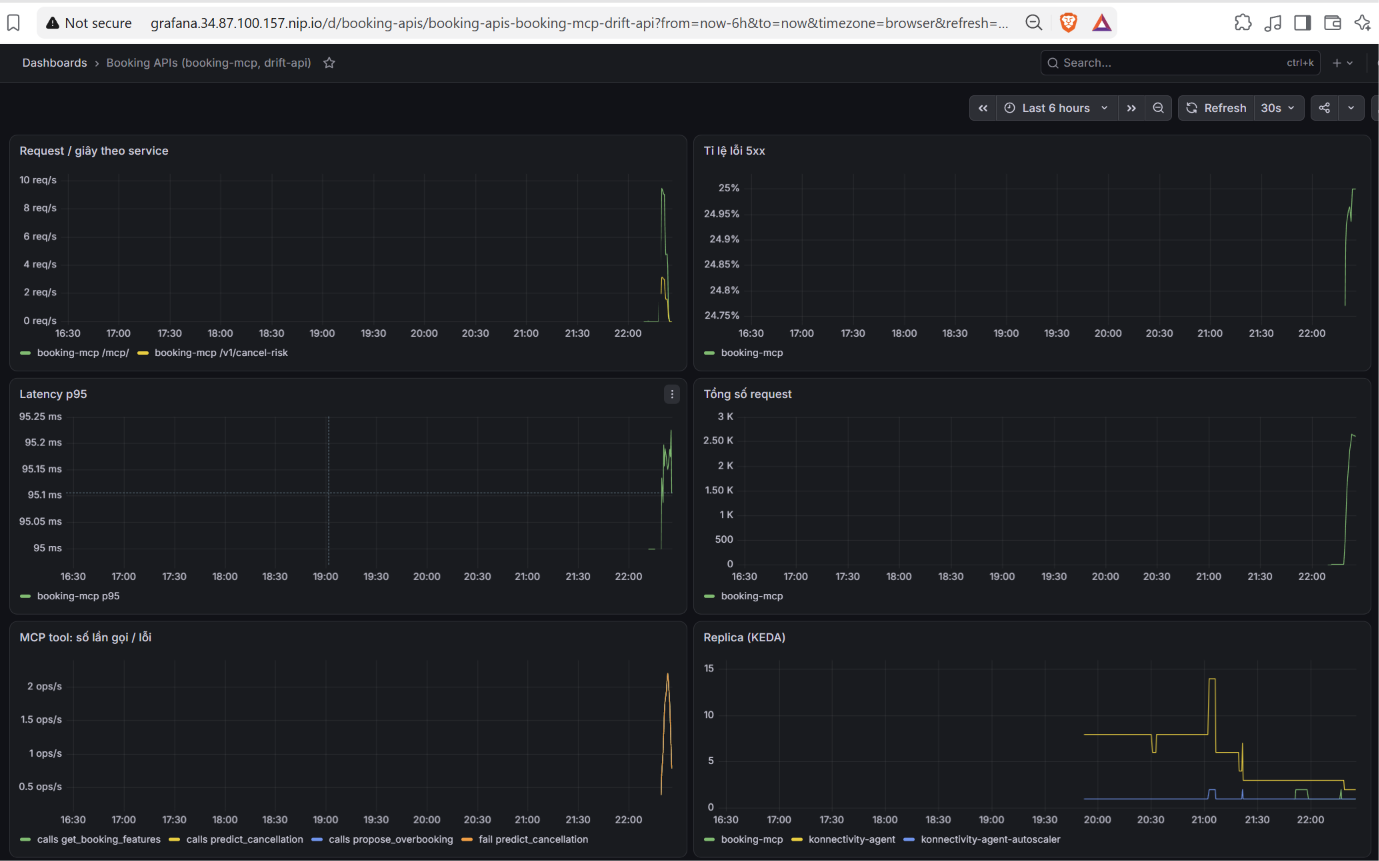
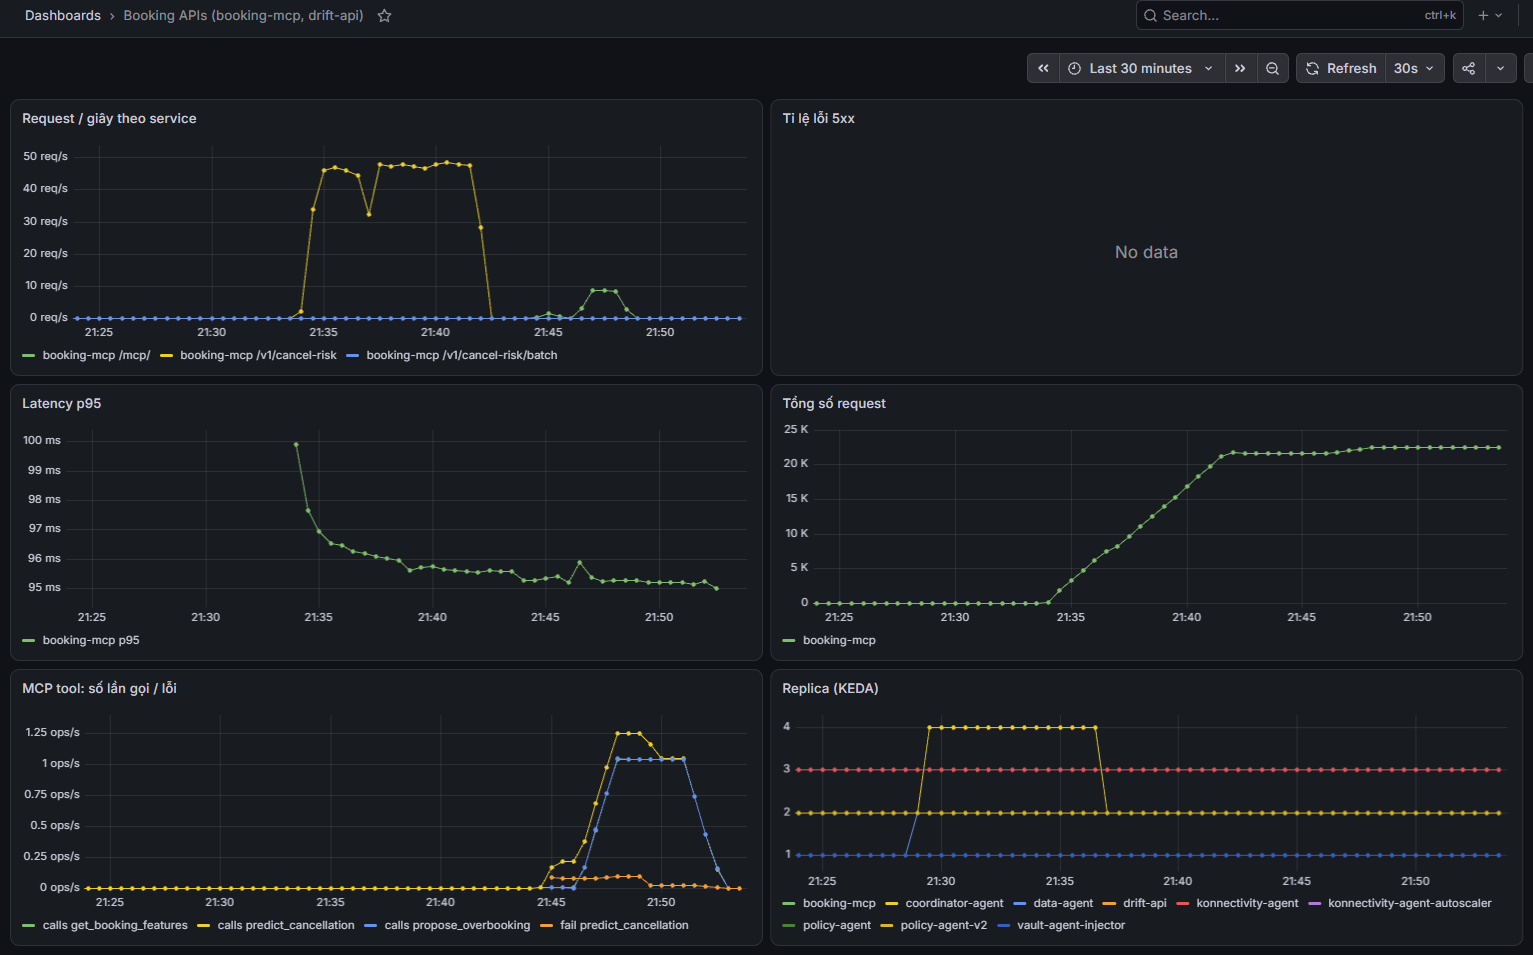
docs(edai-2): refresh dashboard, ep/bva and coordinator scale proofs

diff --git a/docs/edai-2/observability.md b/docs/edai-2/observability.md
@@ -7,16 +7,11 @@ Metric của Web API, telemetry hệ thống, log, trace, telemetry cho LLM và 
 
 booking-mcp chạy trên GKE (namespace `agents`, Helm chart `helm/api`, image
 `booking-mcp:e6e53e9-2`). Feature được materialize từ Gold lên online store Feast (PostgreSQL, schema `feast_online`).
-Một script tạo traffic chạy trong pod, lấy `booking_id`, khách và khách sạn thật từ `gold.fact_bookings` rồi lặp 400
-vòng; mỗi vòng gọi ba tool MCP (`get_booking_features`, `propose_overbooking`, `predict_cancellation`) và REST
-`POST /v1/cancel-risk`. KServe chưa deploy, nên `predict_cancellation` và `/v1/cancel-risk` lỗi thật ở bước gọi model;
-các lỗi này hiện thành failure trên dashboard. booking-mcp dùng `prometheus-fastapi-instrumentator` để đo req/s, số request,
-lỗi và latency; ServiceMonitor của chart cho Prometheus scrape `/metrics`. Dashboard
-`observability/dashboards/booking-apis.json` hiển thị các metric này.
+booking-mcp dùng `prometheus-fastapi-instrumentator` để đo req/s, số request, lỗi và latency; ServiceMonitor của chart
+cho Prometheus scrape `/metrics`. Dashboard `observability/dashboards/booking-apis.json` hiển thị các metric này.
 
-Số đếm trên Prometheus tính từ lúc pod khởi động: `/mcp/` nhận 2.085 request 2xx, `/v1/cancel-risk` trả 692 request 5xx.
-Lúc traffic chạy, `/mcp/` đạt đỉnh khoảng 9,4 req/s và `/v1/cancel-risk` khoảng 3 req/s; tỉ lệ lỗi 5xx của service
-khoảng 25% (692 trên 2.777 request), đúng bằng phần request REST gọi KServe; latency p95 khoảng 95 ms.
+Locust (`tests/locustfile.py`, 20 user, 5 phút) gọi `POST /v1/cancel-risk`: khoảng 47 req/s, hơn 21 nghìn request,
+latency p95 khoảng 96 ms, không có lỗi 5xx (panel 5xx không có series nào).
 
 ![Grafana: Booking APIs](../images/edai-2/grafana-booking-apis.png)
 
@@ -42,7 +37,7 @@ executor Spark khoảng 6 core.
 <a id="edai-2-48"></a>
 ## Thu thập và trực quan hoá Logs (Fluent Bit + Elasticsearch + Kibana)
 
-Dùng cùng stack ở dòng 47; log đi theo chuỗi Fluent Bit → Elasticsearch → Kibana
+Dùng cùng stack ở mục trên; log đi theo chuỗi Fluent Bit → Elasticsearch → Kibana
 (`observability/stack/efk.yaml`), Kibana truy cập qua ingress. Fluent Bit chạy dạng DaemonSet (1 pod mỗi node), đọc log
 container, gắn metadata pod/namespace, bỏ log của `kube-system` và `monitoring`, rồi đẩy vào index `booking-YYYY.MM.DD`.
 Chart Kibana 8.5.1 bật `csp.strict` khiến một số trình duyệt bị chặn, nên cấu hình đặt `csp.strict: false`.
@@ -57,7 +52,7 @@ Airflow DP2 ra đúng log của `silver_bookings`, `stage_gold`, `upsert_gold`.
 <a id="edai-2-49"></a>
 ## Thu thập và trực quan hoá Traces (Jaeger)
 
-Jaeger ([`observability/stack/jaeger.yaml`](../../edai2/observability/stack/jaeger.yaml)) nhận OTLP gRPC cổng 4317 và mở UI qua ingress (dòng 39). Cả `booking-mcp` (FastAPI, span `feast.online` cho mỗi lần đọc online store và httpx tới KServe khi có biến `OTEL_EXPORTER_OTLP_ENDPOINT`) lẫn `agentgateway` ([`gateway/agentgateway.yaml`](../../edai2/gateway/agentgateway.yaml), bật `config.tracing.otlpEndpoint` và `randomSampling: true`) đều gửi trace về `jaeger-collector.monitoring.svc.cluster.local:4317` và truyền tiếp W3C `traceparent` xuyên suốt các dịch vụ.
+Jaeger ([`observability/stack/jaeger.yaml`](../../edai2/observability/stack/jaeger.yaml)) nhận OTLP gRPC cổng 4317 và mở UI qua ingress. Cả `booking-mcp` (FastAPI, span `feast.online` cho mỗi lần đọc online store và httpx tới KServe khi có biến `OTEL_EXPORTER_OTLP_ENDPOINT`) lẫn `agentgateway` ([`gateway/agentgateway.yaml`](../../edai2/gateway/agentgateway.yaml), bật `config.tracing.otlpEndpoint` và `randomSampling: true`) đều gửi trace về `jaeger-collector.monitoring.svc.cluster.local:4317` và truyền tiếp W3C `traceparent` xuyên suốt các dịch vụ.
 
 - **Chạy đơn lẻ `booking-mcp` (trước khi deploy KServe):** trace `POST /v1/cancel-risk` (13,43 ms, 7 span) gồm span FastAPI, hai span `feast.online` (1,78 ms và 2,23 ms) và span `POST` gọi KServe (4,99 ms, đánh dấu lỗi vì KServe chưa deploy).
 - **Trace phân tán liên thông qua gateway → MCP → Feast → KServe:** một lượt gọi MCP `predict_cancellation(120152161878)` qua `agentgateway` → `booking-mcp` → Feast online → KServe `cancel-risk` (trả `probability = 0,0643`, `model_version = 1`) tạo thành **1 trace duy nhất** (`1a3bf0b`, 2 service, độ sâu 4, 11 span, tổng **2,33 s**): `agentgateway` (`tools/call` → `tools/call booking-tools_predict_cancellation` 4,45 ms) → `booking-mcp` (`POST /mcp` → hai span `feast.online` 190,26 ms và 126,72 ms → `POST` gọi KServe 1,78 s).
@@ -82,7 +77,7 @@ Kiểm thử thực tế trên cluster: các prompt chứa PII (`card`, `cccd`, 
 <a id="edai-2-51"></a>
 ## Telemetry cho Agent và MCP Tools
 
-Cùng lần chạy ở dòng 46, `booking-mcp` đếm số lần gọi từng tool (`mcp_tool_calls_total`) và số lần tool lỗi
+`booking-mcp` đếm số lần gọi từng tool (`mcp_tool_calls_total`) và số lần tool lỗi
 (`mcp_tool_failures_total`), hiển thị trên dashboard [`observability/dashboards/booking-apis.json`](../../edai2/observability/dashboards/booking-apis.json).
 Trên GKE, sau khi triển khai đủ `agentgateway` và các agent (`coordinator-agent`, `data-agent`,
 `policy-agent`), dashboard [`observability/dashboards/llm-agents.json`](../../edai2/observability/dashboards/llm-agents.json)
@@ -94,14 +89,9 @@ ghi nhận số lần gọi và lỗi theo từng agent qua metric `agentgateway
 | `default/a2a-data-agent` | 21 | 2 |
 | `default/a2a-policy-agent` | 21 | 2 |
 
-| Tool MCP | Số lần gọi | Số lần lỗi |
-|---|---|---|
-| `get_booking_features` | 692 | 0 |
-| `propose_overbooking` | 692 | 0 |
-| `predict_cancellation` | 692 | 692 (chưa có KServe) |
-
-Trên panel "MCP tool: số lần gọi / lỗi", bốn đường (ba đường số lần gọi và đường lỗi của `predict_cancellation`) trùng
-nhau, vì ba tool được gọi cùng nhịp và `predict_cancellation` lỗi ở mọi lần gọi.
+Một client MCP gọi thẳng booking-mcp 300 vòng, mỗi vòng 3 tool (`predict_cancellation`, `get_booking_features`,
+`propose_overbooking`), khoảng 5% `booking_id` không tồn tại: 900 lời gọi, 8 lỗi, đều ở `predict_cancellation`. Đường
+`get_booking_features` trùng với `propose_overbooking` vì hai tool được gọi cùng nhịp.
 
 ![Grafana: số lần gọi và lỗi theo từng agent (A2A)](../images/edai-2/grafana-agent-calls.png)
 

diff --git a/docs/edai-2/testing.md b/docs/edai-2/testing.md
@@ -17,6 +17,12 @@ Chạy kiểm thử trong container (`python:3.12-slim`): `54` test đạt (`15,
 Test tham số hoá theo các lớp tương đương và giá trị biên: xác suất trong `[0, 1]` trả về từ KServe, `booking_id`, và `K` (`p = 0` hoặc `1`, không có booking, chi phí `≤ 0`). `tests/test_overbooking.py` dùng Hypothesis để đối chiếu `K` với định nghĩa trực tiếp.
 
 Các test `edai2/tests/test_overbooking.py` đều đạt trong lần chạy `54/54` ở trên (ảnh kết quả mục `#edai-2-28`) và trên Jenkins Build #19.
+Chạy riêng `pytest tests/test_overbooking.py -v`: 19/19 test đạt, mỗi lớp tương đương và giá trị biên là một case của
+`parametrize` ([`test_overbooking.py`](../../edai2/tests/test_overbooking.py#L26-L48)).
+
+![EP/BVA: các lớp tương đương và giá trị biên trong parametrize](../images/edai-2/ep-bva-parametrize.png)
+
+![EP/BVA: 19 case parametrize của test_overbooking.py](../images/edai-2/ep-bva-pytest.png)
 
 <a id="edai-2-30"></a>
 ## Kiểm thử đột biến (Mutation Testing) với mutmut
@@ -25,7 +31,7 @@ Jenkins chạy mutmut chỉ trên các file thay đổi; `ci/check_mutation_scor
 80%.
 
 Mutmut chạy cục bộ trong container `python:3.12-slim` với `requirements-dev.txt`, chỉ mutate
-`mcp_server/overbooking.py` (file có logic thay đổi gần nhất); bước này chưa chạy trong pipeline Jenkins. Trong 46 mutant,
+`mcp_server/overbooking.py` (file có logic thay đổi gần nhất); đây là lần chạy cục bộ. Trong 46 mutant,
 test giết 40 và để sống 6, **mutation score đạt 87,0%** (ngưỡng 80%). Cả 6 mutant sống sót không làm đổi hành vi của `limit`:
 
 - 2 mutant chỉ đổi chuỗi thông báo của `ValueError`.
@@ -59,7 +65,7 @@ Ngoài ra, kiểm thử symbolic execution bằng `hypothesis-crosshair` (`@sett
 
 `tests/locustfile.py` gửi tải tới `POST /v1/cancel-risk` (5 phần) và `/healthz` (1 phần) của booking-mcp; mỗi
 request đọc feature từ Feast online rồi gọi KServe `cancel-risk`. Biến `BOOKING_IDS` cho locust dùng 5.000 `booking_id`
-thật lấy từ `gold.fact_bookings`, vì cluster thứ hai chỉ có dữ liệu tháng 1/2025. Locust chạy trong một pod trên GKE,
+thật lấy từ `gold.fact_bookings`, vì Gold trên cluster chỉ có dữ liệu tháng 1/2025. Locust chạy trong một pod trên GKE,
 gọi thẳng service: 100 user, tăng 10 user/s, 5 phút, `--html` ra file SLA
 [locust_sla_report.html](locust_sla_report.html). booking-mcp chạy 1 replica.
 
@@ -69,7 +75,7 @@ gọi thẳng service: 100 user, tăng 10 user/s, 5 phút, `--html` ra file SLA
 | `GET /healthz` | 3.548 | 0 | 11,8 | 4 ms | 14 ms | 110 ms | 497 ms |
 | Tổng | 21.059 | 0 | 70,3 | 1.000 ms | 2.400 ms | 3.400 ms | 5.342 ms |
 
-Không có request lỗi. Latency cao do đọc online store: trace Jaeger lúc chịu tải (dòng 15) cho thấy hai lần đọc Feast
+Không có request lỗi. Latency cao do đọc online store: trace Jaeger lúc chịu tải cho thấy hai lần đọc Feast
 chiếm khoảng 98% thời gian một request, còn KServe chỉ khoảng 7,5 ms. Hướng cải thiện: tăng replica booking-mcp, dùng
 connection pool cho online store Feast, thêm index trên bảng online. Trên Grafana, req/s của `/v1/cancel-risk` lên tới
 khoảng 80 req/s ở đỉnh và không có lỗi 5xx. Panel p95 đứng ở 1 s vì histogram mặc định của

diff --git a/docs/edai-2/coordinator_agent.md b/docs/edai-2/coordinator_agent.md
@@ -5,24 +5,24 @@ Coordinator điều phối các agent con; tài liệu gồm số replica, autos
 <a id="edai-2-25"></a>
 ## Triển khai Coordinator Agent với multi-replica và auto-scale
 
-coordinator-agent ([`agents/agents-gke.yaml`](../../edai2/agents/agents-gke.yaml)) điều phối `data-agent` và `policy-agent` thông qua 2 tool MCP (`delegate_data_agent`, `delegate_policy_agent`) đi qua `agentgateway` (`/mcp-a2a` → `a2a-bridge` → `/a2a/<agent>/`). Với câu hỏi gồm số liệu của khách 18766768 tại khách sạn 8528 và xác suất huỷ của booking 90000919211, coordinator tách thành hai yêu cầu, giao cho từng agent con rồi tổng hợp đầy đủ số liệu khách, nhu cầu khách sạn và xác suất huỷ (model v1). Coordinator đã có trên agentregistry (dòng 26, ảnh catalog bên dưới).
+coordinator-agent ([`agents/agents-gke.yaml`](../../edai2/agents/agents-gke.yaml)) điều phối `data-agent` và `policy-agent` thông qua 2 tool MCP (`delegate_data_agent`, `delegate_policy_agent`) đi qua `agentgateway` (`/mcp-a2a` → `a2a-bridge` → `/a2a/<agent>/`). Với câu hỏi gồm số liệu của khách 18766768 tại khách sạn 8528 và xác suất huỷ của booking 90000919211, coordinator tách thành hai yêu cầu, giao cho từng agent con rồi tổng hợp đầy đủ số liệu khách, nhu cầu khách sạn và xác suất huỷ (model v1). Coordinator đã có trên agentregistry (ảnh catalog bên dưới).
 
 Coordinator chạy 2 replica và autoscale 2–4 bằng KEDA ScaledObject `coordinator-agent` trong
 [`k8s/keda.yaml`](../../edai2/k8s/keda.yaml), với hai trigger: request/giây của route `/a2a/coordinator-agent` trên
 agentgateway (ngưỡng 1) và CPU 60%; KEDA lấy số replica lớn hơn của hai trigger. Agent không đặt
-`deployment.replicas` để kagent không ghi đè replica do KEDA chọn. Phép thử tải và scale chạy trên data-agent với
-cùng cơ chế (dòng 19: 2 → 4 replica khi vượt ngưỡng, về 2 sau 5 phút).
+`deployment.replicas` để kagent không ghi đè replica do KEDA chọn. `tests/keda_load.sh coordinator-agent 150` tạo khoảng
+10 request/giây vào route `/a2a/coordinator-agent`: từ 2/2 replica, 20 giây sau desired lên 4, thêm 20 giây nữa 4/4 Ready.
 
 ![kagent UI: coordinator-agent gọi data-agent và policy-agent](../images/edai-2/kagent-coordinator.png)
 
 ![agentregistry: catalog có coordinator-agent](../images/edai-2/registry-agents.png)
 
-![KEDA scale data-agent 2 → 4 replica](../images/edai-2/keda-scale.png)
+![KEDA scale coordinator-agent 2 → 4 replica](../images/edai-2/keda-scale-coordinator.png)
 
 <a id="edai-2-26"></a>
 ## Đăng ký Coordinator Agent lên agentregistry
 
-Script [`ci/publish_agent_card.py`](../../edai2/ci/publish_agent_card.py) đăng agent lên agentregistry (dòng 8):
+Script [`ci/publish_agent_card.py`](../../edai2/ci/publish_agent_card.py) đăng agent lên agentregistry:
 lấy agent card A2A từ kagent controller, dựng resource `ar.dev/v1alpha1` gồm `MCPServer` `booking-tools` (route `/mcp`
 của agentgateway) và `Agent` (tiêu đề, mô tả, model, MCP server, repository và commit), rồi gửi `POST /v0/apply`.
 Tag là commit đang deploy, nên mỗi lần deploy để lại một phiên bản; apply lại cùng tag thì cập nhật. Card lấy từ
